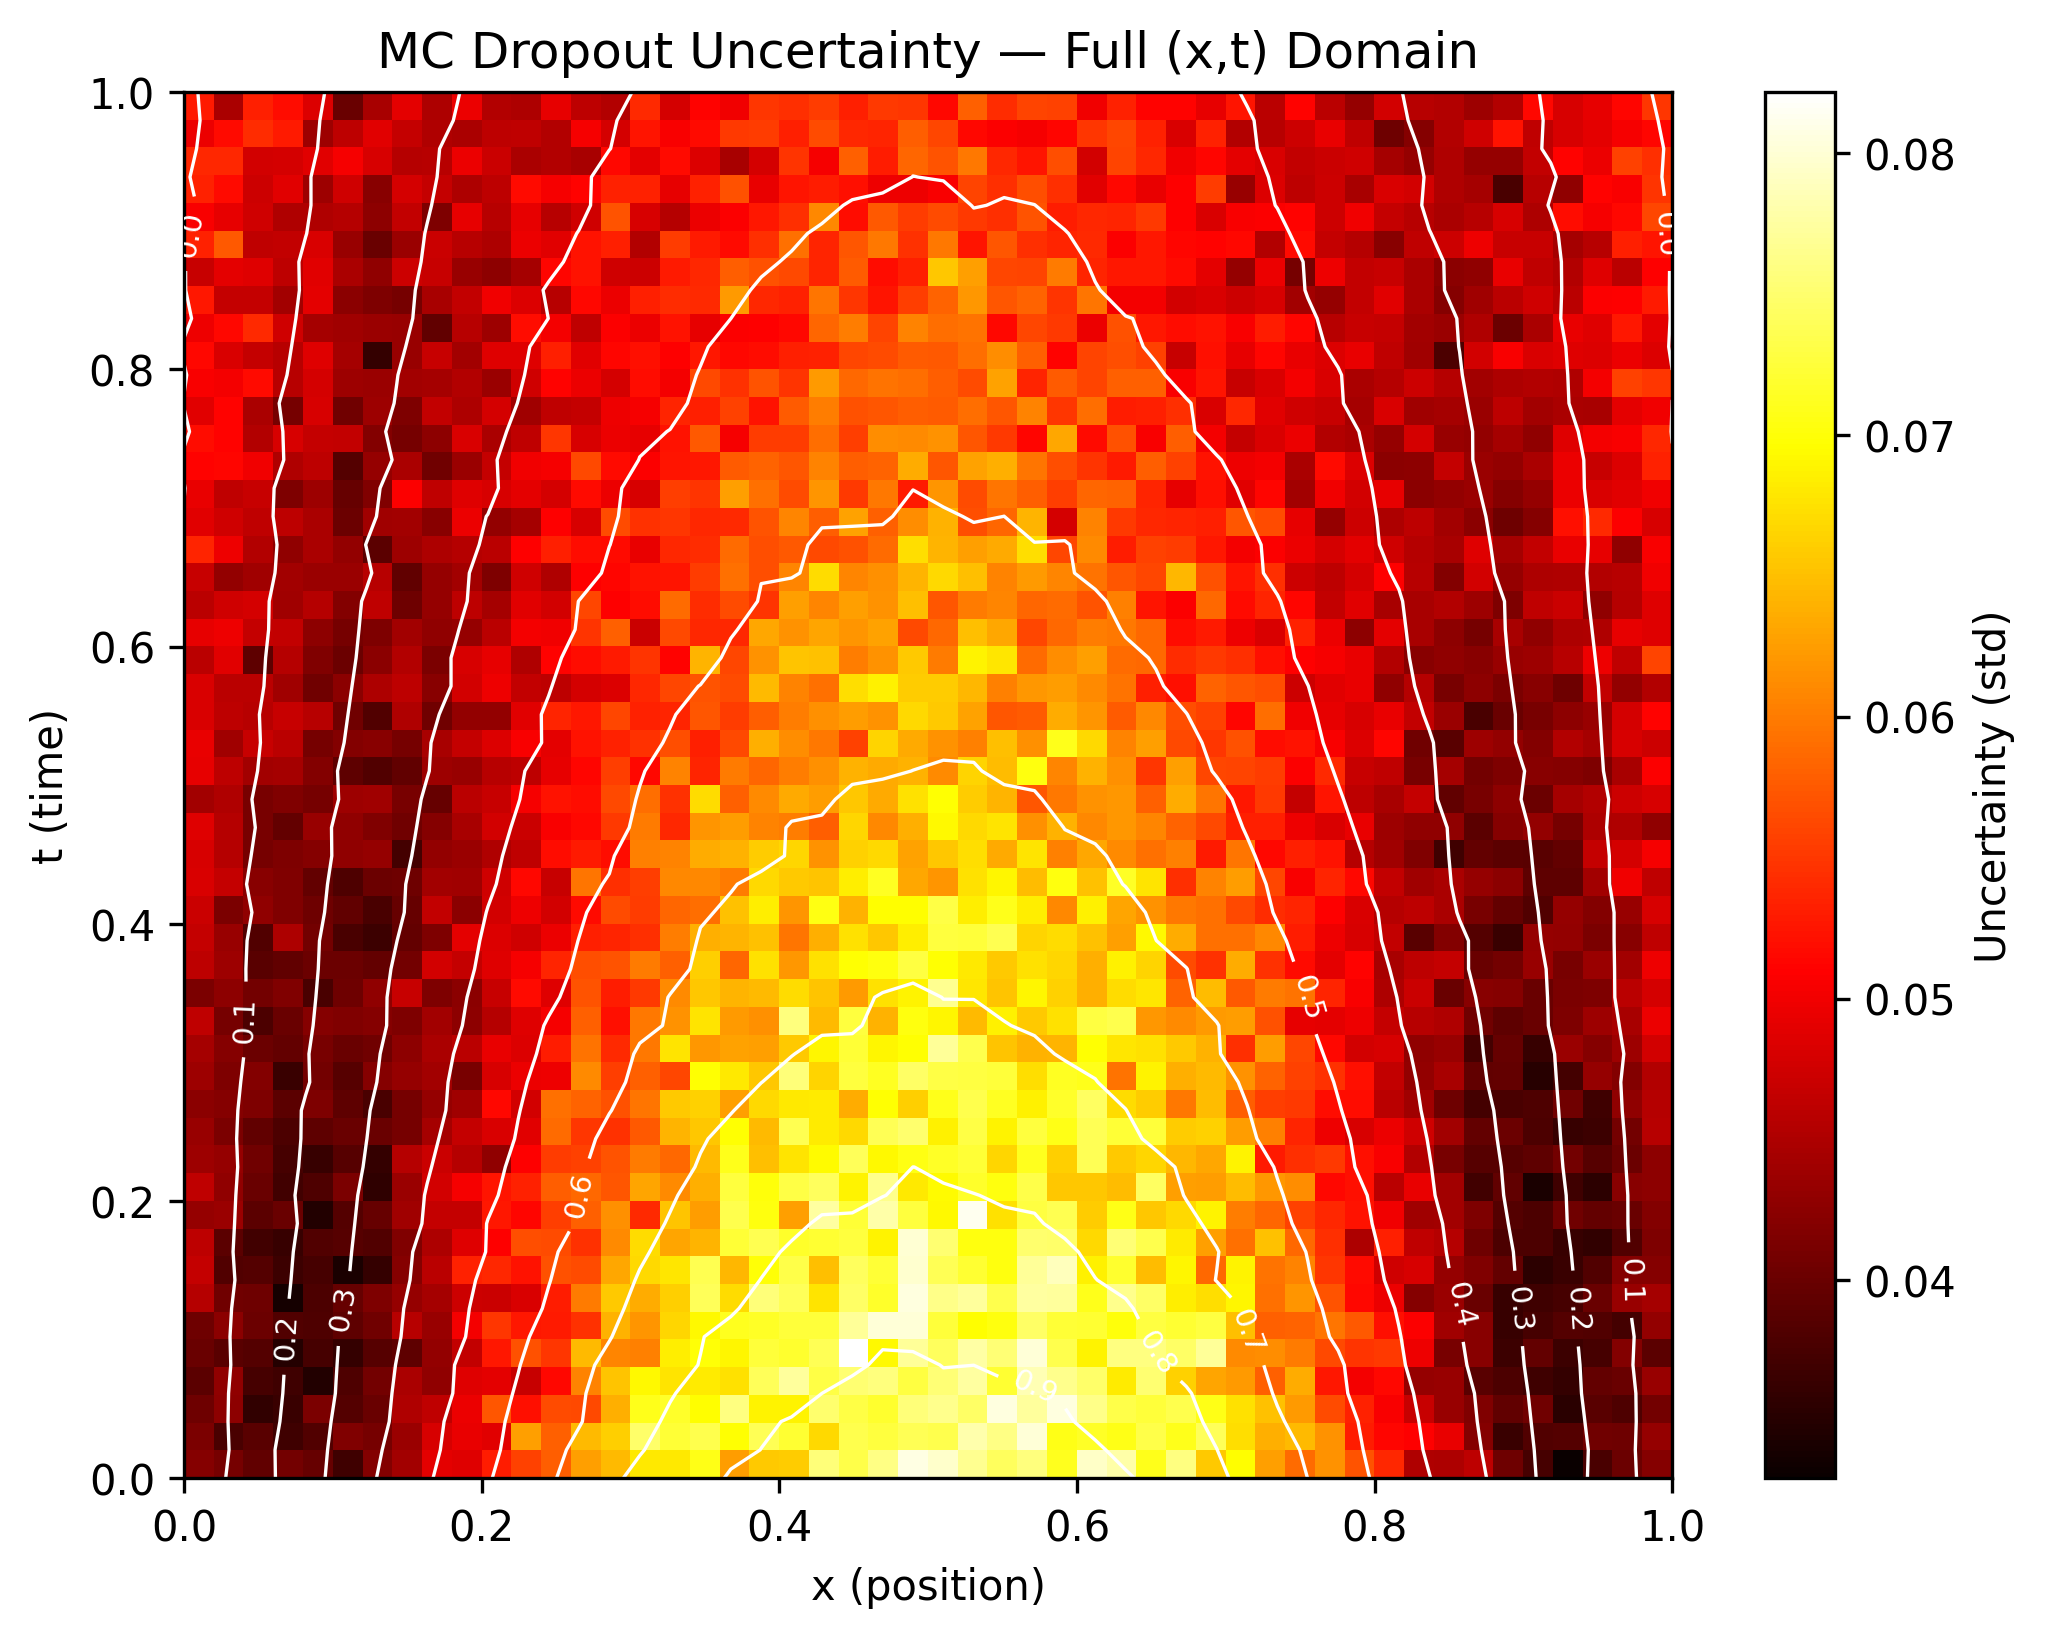
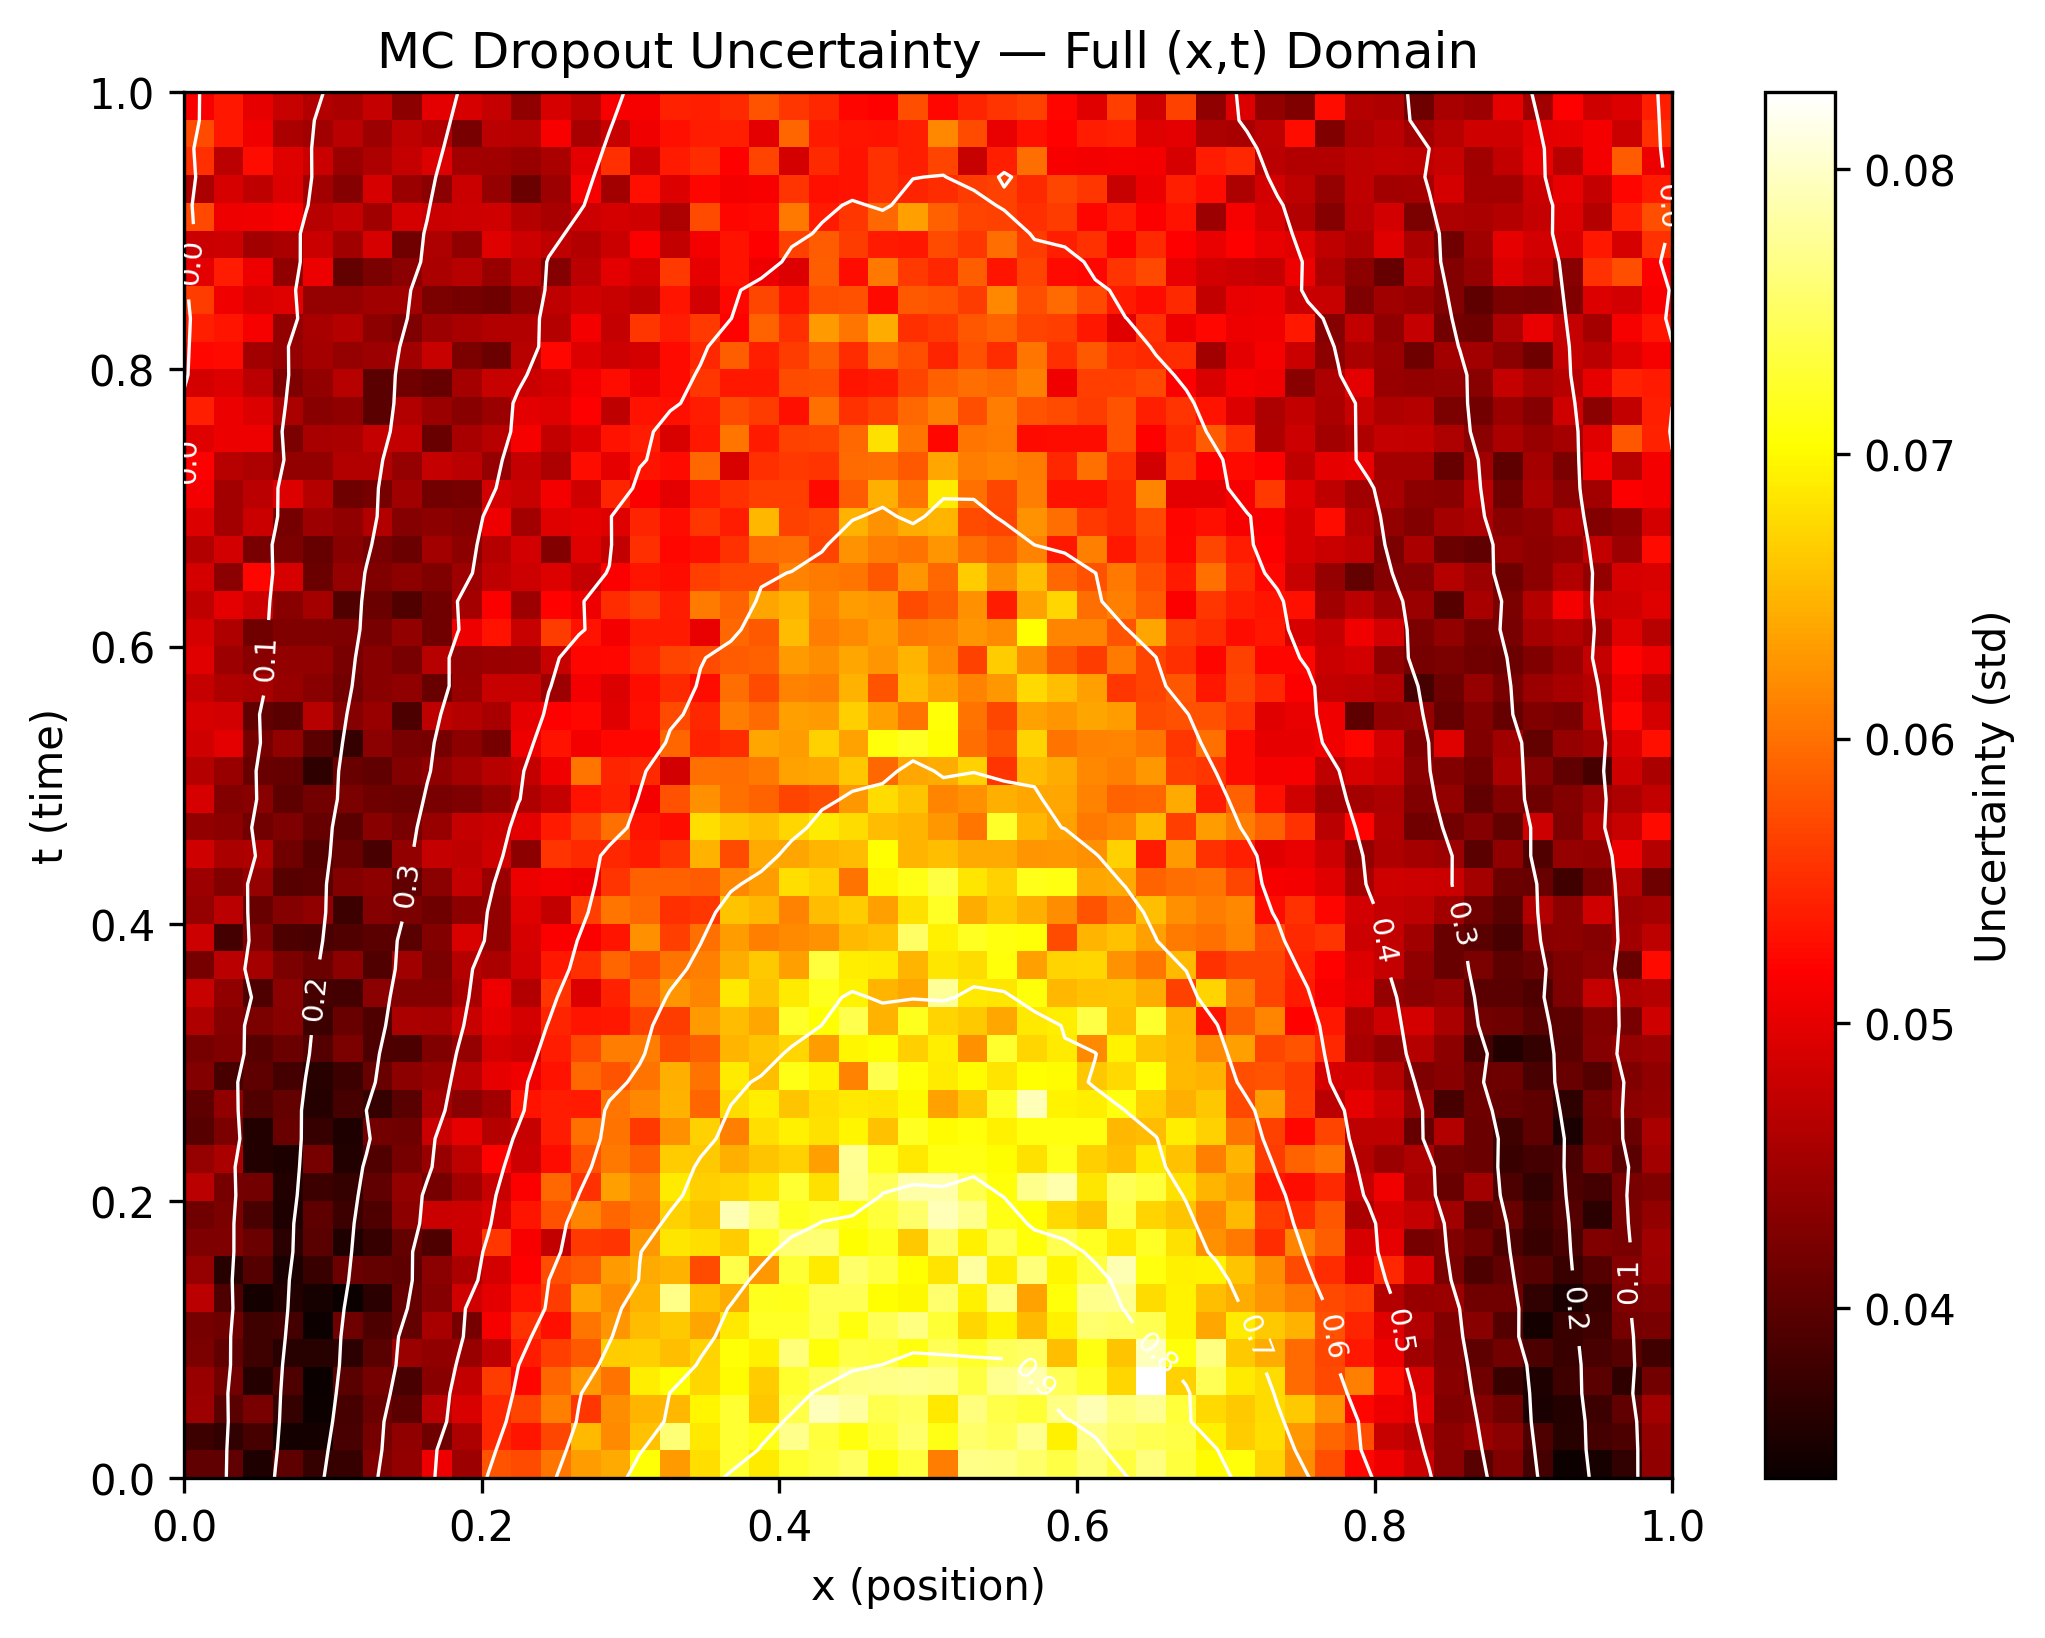
benchmark.json updated with uncertainty metrics and analysis (resuls.md)

diff --git a/generate_uncertainty.py b/generate_uncertainty.py
@@ -2,6 +2,7 @@ import torch
 import numpy as np
 import pinn
 import matplotlib.pyplot as plt
+import json
 
 x = np.linspace(0, 1, 50)
 t = np.linspace(0, 1, 50)
@@ -22,15 +23,52 @@ model = pinn.PINN()
 model.load_state_dict(torch.load("models/heat_pinn.pth"))
 
 mean, std = pinn.mc_dropout_predict(model, X_ten, T_ten, 200)
+# pulled from pinn.py
 
 mean_grid = mean.detach().numpy().reshape(50, 50)
 # We are reshaping the tensor to a grid
 # (2500, 1) to 50x50
+# it tells us teh mean temperature over each spot for the entire domain over 200 passes
+# its the u(x,t) at each grid point
 std_grid = std.detach().numpy().reshape(50, 50)
+std_mean = np.mean(std_grid)
+# this calculates the average uncertainty across the domain (a 2D 50x50 array)
 
+std_max = np.max(std_grid)
+row, col = np.unravel_index(np.argmax(std_grid), std_grid.shape)
+# std_grid.shape tells the function that this 2D array is 50x50, it is needed to backtrack from a flat position
+# np.argmax(std_grid) scans the entire grid and returns the INDEX of the largest value in the 1D array (flattened version of the 2D array)
+# argmax tells us the number in a 1D array - something like 157, useful but wrong format
+# unravel_index is the translator that takes that huge number and returns the row and col to pin point the largest value in the 2D array
+
+x_largest = x[col]
+t_largest = t[row]
+# row and col are normal numbers (whole numbers) and find the coordinates which are values of x and t - this is how we do it
+
+du_dx = np.gradient(mean_grid, axis=1)
+# this gives us an array for the slopes along the data points
+# axis=1, tells np to differentiate with respect to this axis (wqe have two 0 and 1)
+# so it differentiates across columns for each fixed row
+# shape of du_dx is 50x50 same as mean_grid
+
+grad_max = np.max(np.abs(du_dx))
+# we are trying to find the steepest slope which means it doesnt matter if it decreaases or increases - hence we use teh absolute values of the array entries
+# it will only return one number, but we keep the negative slopes in teh competition by taking their absolute value
+
+row2, col2 = np.unravel_index(np.argmax(np.abs(du_dx)), du_dx.shape)
+
+x_max_grad = x[col2]
+t_max_grad = t[row2]
+# these are the coordinates to the point where the gradient of temperature is maximum
+
+uncertainty_max_tempgrad = std_grid[row2, col2]
+# given the coordinates from above - we are finding the uncertainty at that point
 fig, ax = plt.subplots(figsize=(8, 6))
 
 im = ax.imshow(std_grid, origin='lower', aspect='auto', extent=[0,1,0,1], cmap='hot')
+# The line above displays a 2D array as an image
+# ax is an Axes object and imshow means image show
+# cmap controls teh color
 plt.colorbar(im, ax=ax, label='Uncertainty (std)')
 
 contours = ax.contour(X, T, mean_grid, levels=10, colors='white', linewidths=0.8)
@@ -41,3 +79,18 @@ ax.set_ylabel('t (time)')
 ax.set_title('MC Dropout Uncertainty — Full (x,t) Domain')
 
 plt.savefig('figures/fig_uncertainty.png', dpi=300, bbox_inches='tight')
+# DPI: dots per inch, measures the spatial resolution and pixel density of the saved image
+
+results_dict = {
+    "Mean uncertainty across the domain": float(std_mean),
+    "Max uncertainty across the domain": float(std_max),
+    "Max uncertainty co-ordinates": {"x" : float(x_largest), "t" : float(t_largest)},
+    "Max gradient of temperature": {"x" : float(x_max_grad), "t" : float(t_max_grad)},
+    "Uncertainty at max gradient of temperature" : float(uncertainty_max_tempgrad)
+}
+
+with open("benchmarks/benchmark_phase2.json", "r") as f:
+    data = json.load(f)
+data.update(results_dict)
+with open("benchmarks/benchmark_phase2.json", "w") as f:
+    json.dump(data, f, indent=4)

diff --git a/validate.py b/validate.py
@@ -134,7 +134,7 @@ results_dict = {
 }
 # this is a dictionary made solely to compile the numbers and eventually json.dump -- down below
 
-with open("benchmarks/benchmark_phase1.json", "w") as f:
+with open("benchmarks/benchmark_phase2.json", "w") as f:
     json.dump(results_dict, f, indent=4)
 
 # NOTE

diff --git a/docs/results.md b/docs/results.md
@@ -1,0 +1,5 @@
+fig_uncertainty shows us the uncertainty of temperature at each grid point over the entire x,t domain. Spots with dark symbolize low uncertainty while the lighter, close to white spots symbolize high uncertainty.
+The maximum uncertainty across the entire domain is 0.0827 at (x,t) = (0.65, 0.06).
+This can be explained by of the loss terms we defined at the very early stages of the project. Fixing the egdes of the rod to 0 temperature at all times and initializing the simulation with the sin(pi*x) curve, directly constrains the boundaries of the model and at the initial condition. This causes the interior points away from these directly-supervised points to have high uncertainty. The model only has the PDE loss to govern at those points, nothing pinning it down.
+This supported the comparision of uncertainties at teh locked corner and the unconstrained interior: at the point of steepest temperature gradient(x = 0, t = 0) the uncertainty sits at only 0.0404, well below the mean (0.0530). The point of highest uncertainty lies in the interior, away from direct constraints.
+This indicates that uncertainty in this PINN is driven primarily by the proximity to constraints and not how steep the temperature gradient is at that point.